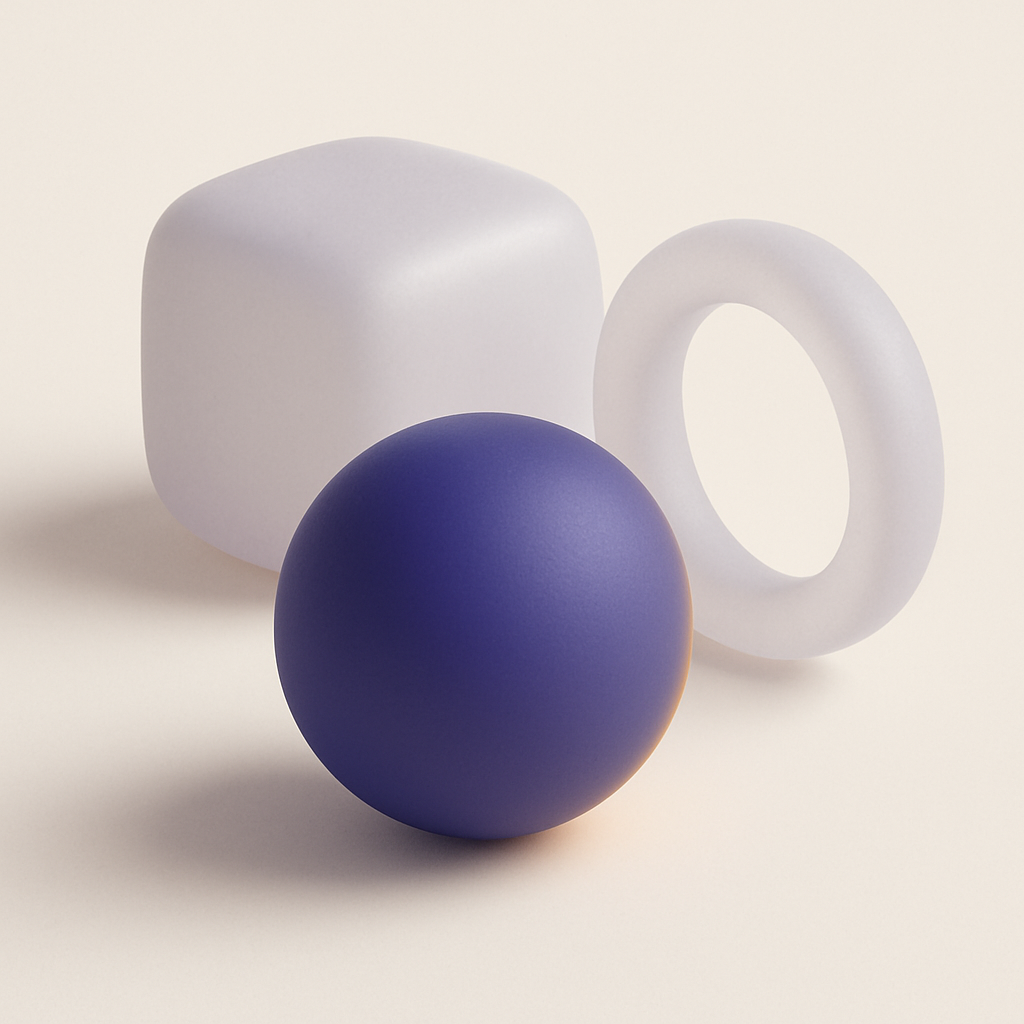
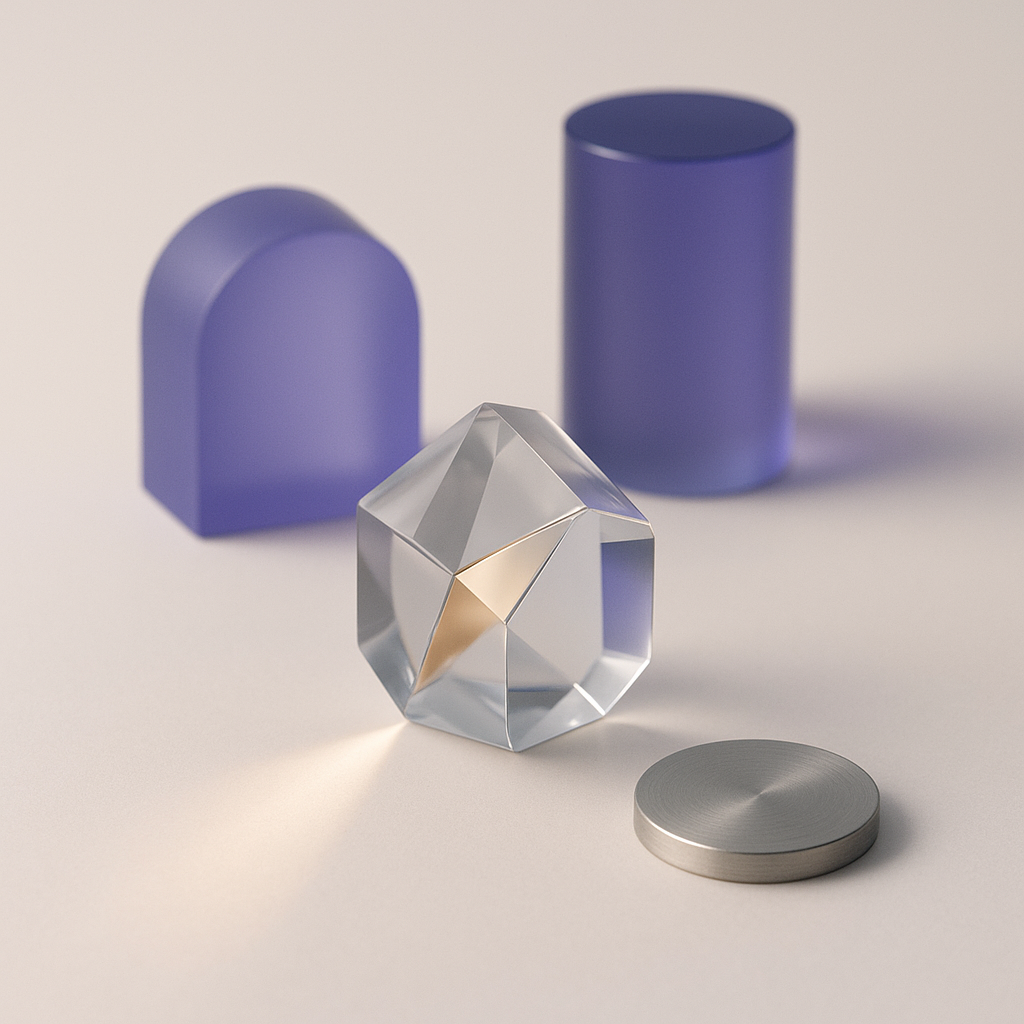
Actualizar la imagen del hero con la primera pieza del Sistema Prisma
Sustituye las formas abstractas iniciales por la nueva composición
generada con el ADN de prompt del Sistema Prisma: un cristal facetado
transparente con una faceta dorada, junto a formas de vidrio esmerilado
índigo y un disco de metal cepillado. Primera imagen de producción de
la nueva dirección de marca.

diff --git a/app/page.tsx b/app/page.tsx
@@ -132,7 +132,7 @@ export default function Home() {
             <div className="animar-flotar overflow-hidden rounded-3xl shadow-premium-lg">
               <Image
                 src="/imagenes/marca/hero-formas.png"
-                alt="Tres formas abstractas de cristal esmerilado; una, en índigo con un reflejo dorado, destaca sobre las otras como la opción elegida"
+                alt="Un cristal facetado transparente con una faceta iluminada en dorado, junto a formas de vidrio esmerilado índigo y un disco de metal cepillado — la opción que destaca entre varias"
                 width={1024}
                 height={1024}
                 priority
